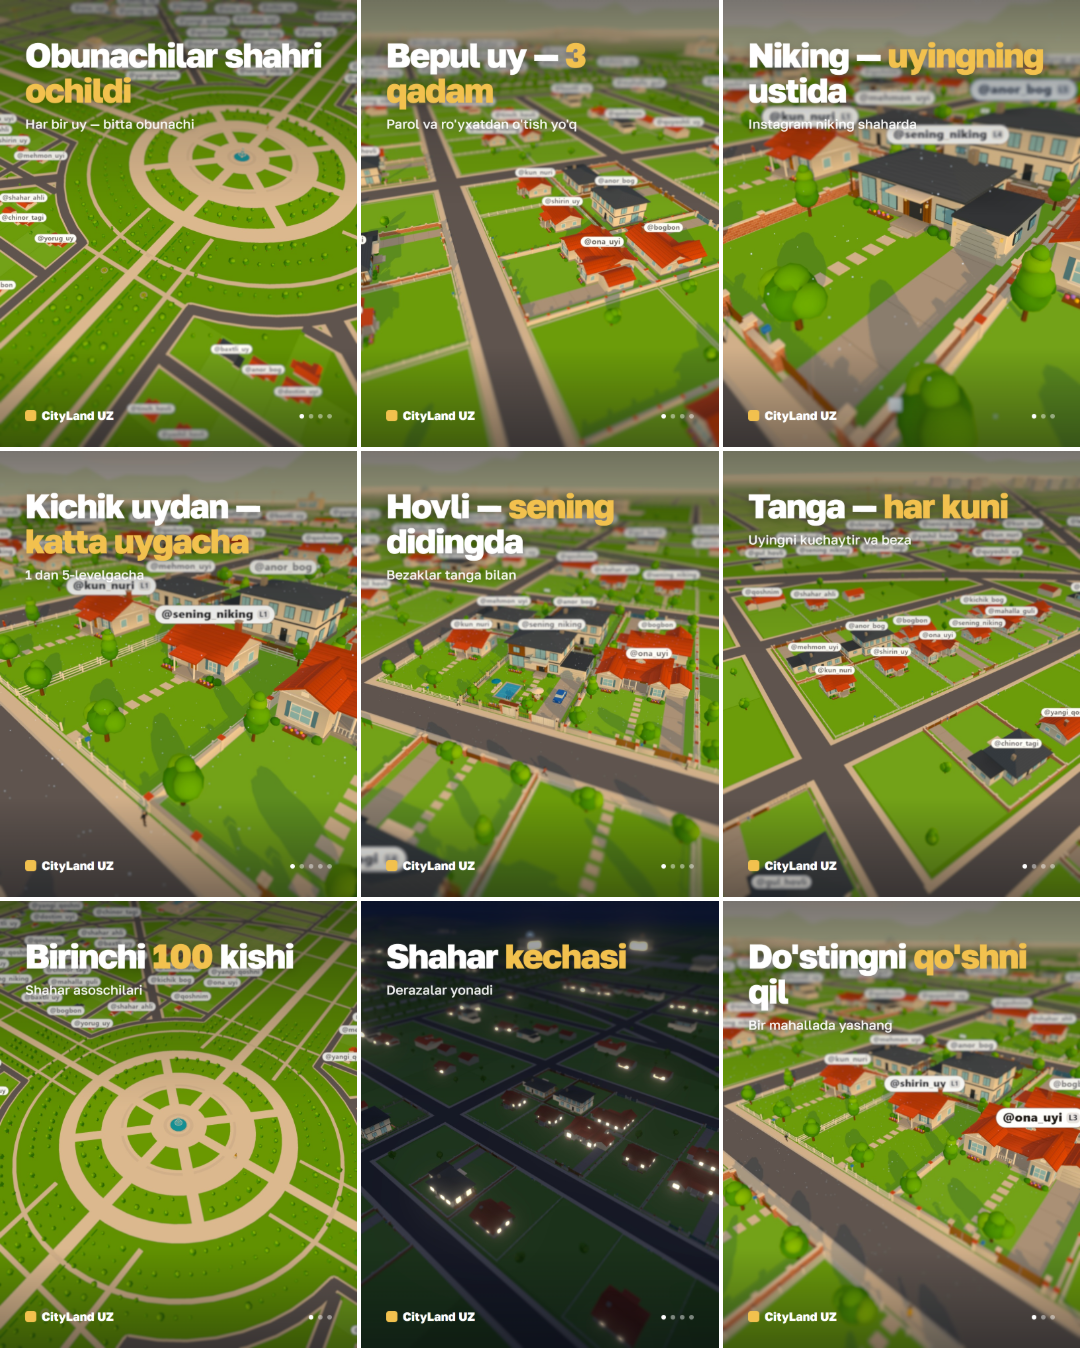
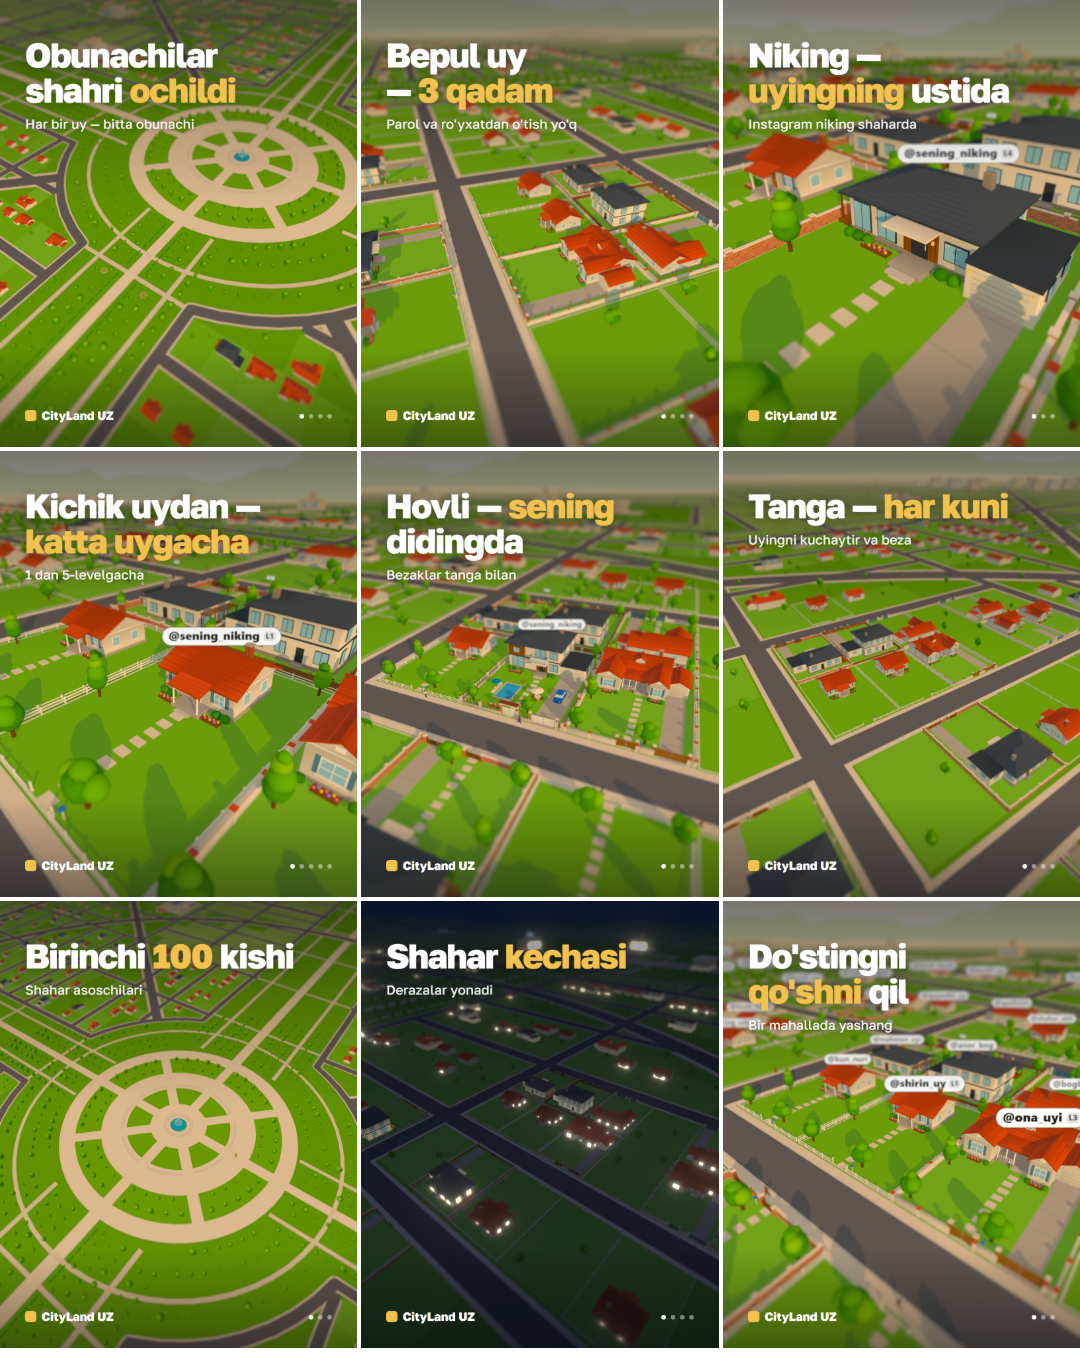
feat: 16-qadam — Instagram: 9 ta ochilish posti (34 slayd, 1080x1350) Foto rejimi grafikasida (A oltin soat + maket, D tun), matnlar.md, izohlar, 3x3 ko'rinish, npm run insta

diff --git a/insta/test/matnlar.test.ts b/insta/test/matnlar.test.ts
@@ -1,0 +1,54 @@
+/** 16-qadam: Instagram postlari — matnlar.md to'g'ri: 9 post, 3–5 slayd, kadr mavjud, 5–8 xeshteg, emoji va soxta da'vo yo'q, oxirida chaqiriq. */
+import { readFileSync } from 'node:fs';
+import { describe, expect, test } from 'vitest';
+// @ts-expect-error — .mjs skript (turlarsiz)
+import { KADRLAR, parsePosts } from '../build.mjs';
+// @ts-expect-error — .mjs skript (turlarsiz)
+import { slideHtml } from '../shablon.mjs';
+
+interface Slide { readonly tur: string; readonly sarlavha: string; readonly matn?: string; readonly kadr: string; readonly ekran?: string; readonly raqam?: string }
+interface Post { readonly id: string; readonly title: string; readonly izoh: string; readonly xeshteglar: string; readonly slides: readonly Slide[] }
+const posts = parsePosts(readFileSync(new URL('../../docs/insta/matnlar.md', import.meta.url), 'utf8')) as readonly Post[];
+const EMOJI = /[\u{1F300}-\u{1FAFF}\u{2600}-\u{27BF}]/u;
+
+describe('matnlar.md', () => {
+  test('9 post (01–09), har birida 3–5 slayd', () => {
+    expect(posts.map((p) => p.id)).toEqual(['01', '02', '03', '04', '05', '06', '07', '08', '09']);
+    for (const p of posts) expect(p.slides.length, p.id).toBeGreaterThanOrEqual(3);
+    for (const p of posts) expect(p.slides.length, p.id).toBeLessThanOrEqual(5);
+  });
+  test('har slaydda sarlavha (2–6 so‘z) va mavjud kadr; turlar ma‘lum', () => {
+    for (const p of posts) for (const s of p.slides) {
+      expect(Object.keys(KADRLAR), `${p.id}: ${s.kadr}`).toContain(s.kadr);
+      expect(['kadr', 'telefon', 'raqam', 'shkala', 'chaqiriq'], `${p.id}: ${s.tur}`).toContain(s.tur);
+      const words = s.sarlavha.replace(/\*/g, '').split(/\s+/).filter((w) => w !== '—' && w !== '–');
+      expect(words.length, `${p.id}: ${s.sarlavha}`).toBeGreaterThanOrEqual(1);
+      expect(words.length, `${p.id}: ${s.sarlavha}`).toBeLessThanOrEqual(6);
+    }
+  });
+  test('izoh 2–4 qator, oxirida chaqiriq; 5–8 xeshteg, #citylanduz bor', () => {
+    for (const p of posts) {
+      const lines = p.izoh.split('\n').filter(Boolean);
+      expect(lines.length, p.id).toBeGreaterThanOrEqual(2);
+      expect(lines.length, p.id).toBeLessThanOrEqual(4);
+      expect(lines.at(-1), p.id).toBe("Bio'dagi havola orqali bepul uyingni ol.");
+      const tags = p.xeshteglar.split(/\s+/).filter((t) => t.startsWith('#'));
+      expect(tags.length, p.id).toBeGreaterThanOrEqual(5);
+      expect(tags.length, p.id).toBeLessThanOrEqual(8);
+      expect(tags).toContain('#citylanduz');
+    }
+  });
+  test('halollik: emoji yo‘q, "N kishi yashaydi" kabi da‘vo yo‘q; faqat o‘zbekcha (kirill yo‘q)', () => {
+    const all = posts.map((p) => [p.izoh, ...p.slides.flatMap((s) => [s.sarlavha, s.matn ?? ''])].join('\n')).join('\n');
+    expect(all).not.toMatch(EMOJI);
+    expect(all).not.toMatch(/kishi yashaydi|allaqachon \d/i);
+    expect(all).not.toMatch(/[Ѐ-ӿ]/);
+  });
+  test('shablon: oltin urg‘u, logo, nuqtalar; oxirgi slaydda "Uyingni ol → bio‘dagi havola"', () => {
+    const html = slideHtml({ tur: 'kadr', sarlavha: 'Seniki *qaysi?*', matn: 'x', kadr: 'bosh-joy' }, { index: 1, count: 4, frame: 'file:///x.jpg', isLast: true, gifts: [] }) as string;
+    expect(html).toContain('<em>qaysi?</em>');
+    expect(html).toContain('CityLand UZ');
+    expect(html.match(/<b class="/g)?.length).toBe(4);
+    expect(html).toContain("Uyingni ol → bio'dagi havola");
+  });
+});

diff --git a/vitest.config.ts b/vitest.config.ts
@@ -2,7 +2,7 @@ import { defineConfig } from 'vitest/config';
 
 export default defineConfig({
   test: {
-    include: ['packages/*/test/**/*.test.ts', 'server/test/**/*.test.ts', 'supabase/test/**/*.test.ts', 'apps/*/test/**/*.test.ts', 'video/test/**/*.test.ts'],
+    include: ['packages/*/test/**/*.test.ts', 'server/test/**/*.test.ts', 'supabase/test/**/*.test.ts', 'apps/*/test/**/*.test.ts', 'video/test/**/*.test.ts', 'insta/test/**/*.test.ts'],
     testTimeout: 60_000,
     // Har baza testi o'z PGlite'ini ochadi: ko'p parallel ishchi xotirani to'ldirib, ishchini yiqitardi (exit 2147483651).
     maxWorkers: 3,

diff --git a/docs/insta/README.md b/docs/insta/README.md
@@ -1,0 +1,14 @@
+# Instagram postlari (@citylanduz) — 16-qadam
+
+- **Matnlar** (yagona manba): `matnlar.md` — sarlavha, kichik matn, kadr, izoh va xeshteglar. O'zgartirsangiz — `npm run insta`.
+- **Izohlar** (post ostiga yoziladigan matn): `izohlar.md` (avtomatik).
+- **Ko'rinish**: `korinish.png` — 9 postning bosh slaydlari 3×3 to'rda (1 → 9, chapdan o'ngga).
+- **Slaydlar**: `postlar/01/1.png` … `postlar/09/N.png` (1080 × 1350, 34 ta) — **gitda yo'q** (≈ 34 MB), shu kompyuterda; `npm run insta` qayta yig'adi.
+- **Kadrlar keshi**: `kadrlar/*.jpg` — gitda yo'q; `npm run insta -- --yangi` qaytadan oladi.
+
+## Qanday yig'iladi
+1. Lokal dev server demo aholi bilan: `DEMO=1 DEV_DATA=.dev-data-demo npm run dev` (ishlab chiqarish bazasiga tegilmaydi).
+2. `npm run insta` — kadrlar saytning **Foto rejimi** grafikasida olinadi (A — oltin soat + maket, D — tun; 4:5, 2× supersampling), niklar umumiy so'zlarga almashtiriladi (`sening_niking`, `qoshnim`…), keyin shablon (`insta/shablon.mjs`) bilan slaydlar yig'iladi.
+3. Kadr nomlari va kamera joylari: `insta/build.mjs` → `KADRLAR`.
+
+Promo video va reels (INSTAGRAM-PROMT 2–3-bo'limlar) — hozircha qilinmagan.

diff --git a/README.md b/README.md
@@ -95,3 +95,9 @@ Har kuni 22:10 UTC (Toshkent 03:10) zaxira ikki joyga yoziladi: Supabase Storage
 Bo'laklar bo'lsa avval birlashtiring: `cat cityland-<sana>.json.gz.part* > cityland-<sana>.json.gz`.
 
 Diqqat: kirish akkauntlari (`auth.users`) bu zaxirada yo'q — ular Supabase'ning o'z zaxirasidan (pullik tarif) tiklanadi; aks holda profillar tiklanadi, lekin odamlar botda `/start` bilan qayta kiradi. Avval sinov bazasida sinab ko'ring.
+
+## Instagram postlari
+`npm run insta` — 9 ta ochilish posti (1080 × 1350) lokal demo shahardan, saytning Foto rejimi grafikasi bilan. Batafsil: [docs/insta/README.md](docs/insta/README.md).
+
+## Foto rejimi namunalari
+`node e2e/foto.mjs` (dev server `DEMO=1` bilan) — `docs/chat/ui-foto-*.png`, `foto-namuna-*.jpg` va kadr olish vaqti (CPU ×6 da ≤ 3 s).
